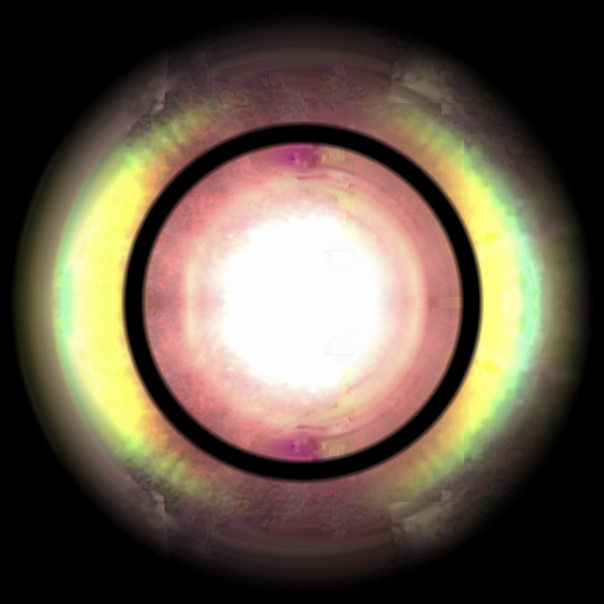
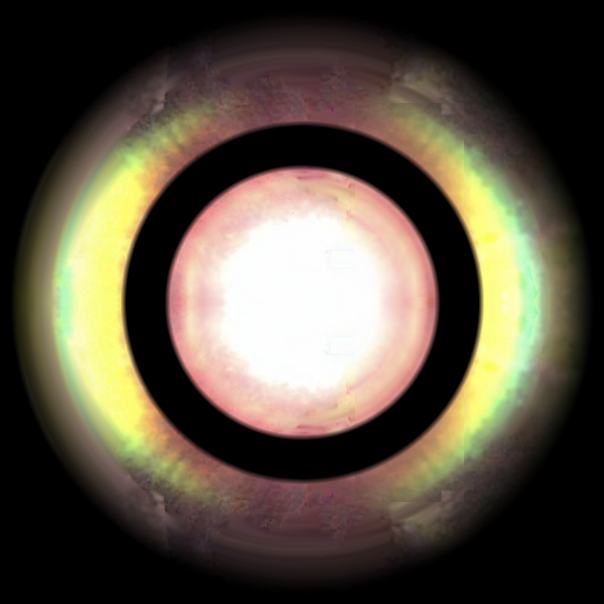
Efekt 10 küre (referans): boş bant merkeze doğru genişletildi (136-180)
Claude-Session: https://claude.ai/code/session_01E9c1WiJsMc9gXSJZ9D4z6g

Changed region(s): [[0.2086, 0.2086, 0.7748, 0.7748]]

diff --git a/arayuz/araclar/efekt10/kure_ref.py b/arayuz/araclar/efekt10/kure_ref.py
@@ -55,7 +55,7 @@ T=E*(1-w)+dol*w
 ust=np.clip((CY+6-yy)/12,0,1)[...,None]
 T=T*(1-ust)+T[my,xx]*ust
 # turuncu gecis katmani (r 160-180, somon halka ile sari parantez arasi) kaldirildi: yumusak kenarli saydam
-kald=1-np.clip((R-156)/6,0,1)*np.clip((182-R)/6,0,1)
+kald=1-np.clip((R-132)/6,0,1)*np.clip((182-R)/6,0,1)          # bos bant merkeze dogru 24 px (mevcut genisligin 6/5i) genisletildi: 136-180
 T=T*kald[...,None]
 # daire disi (isaretli bolge disi) yumusakca saydam
 T=T*np.clip((RMAX+30-R)/45,0,1)[...,None]
